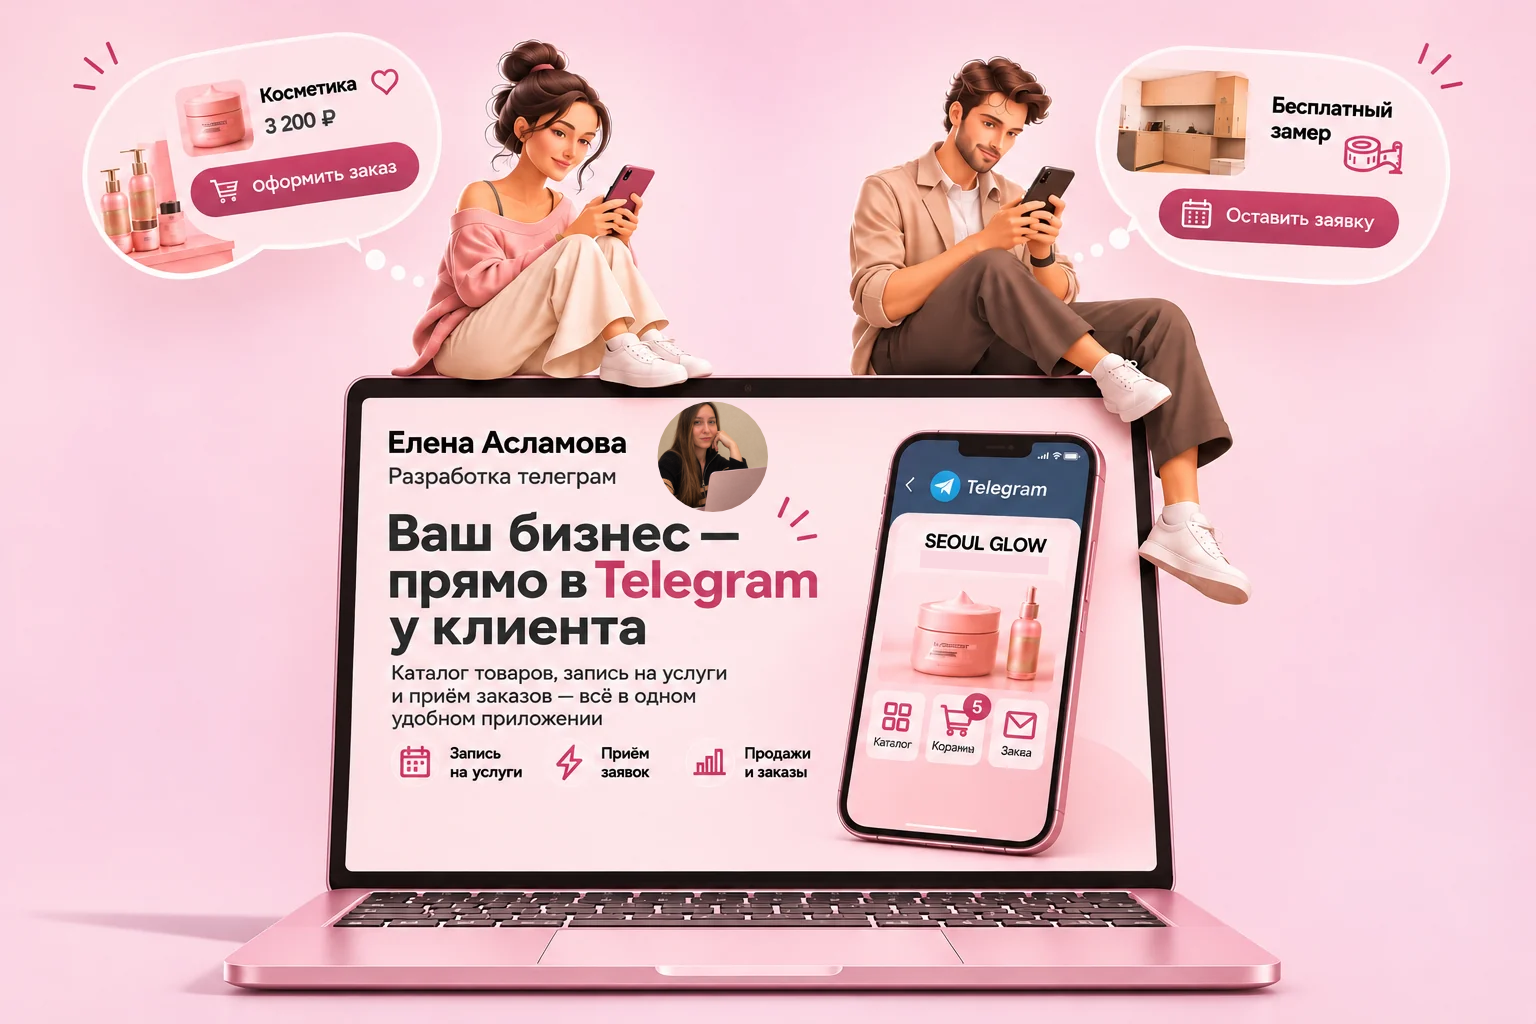
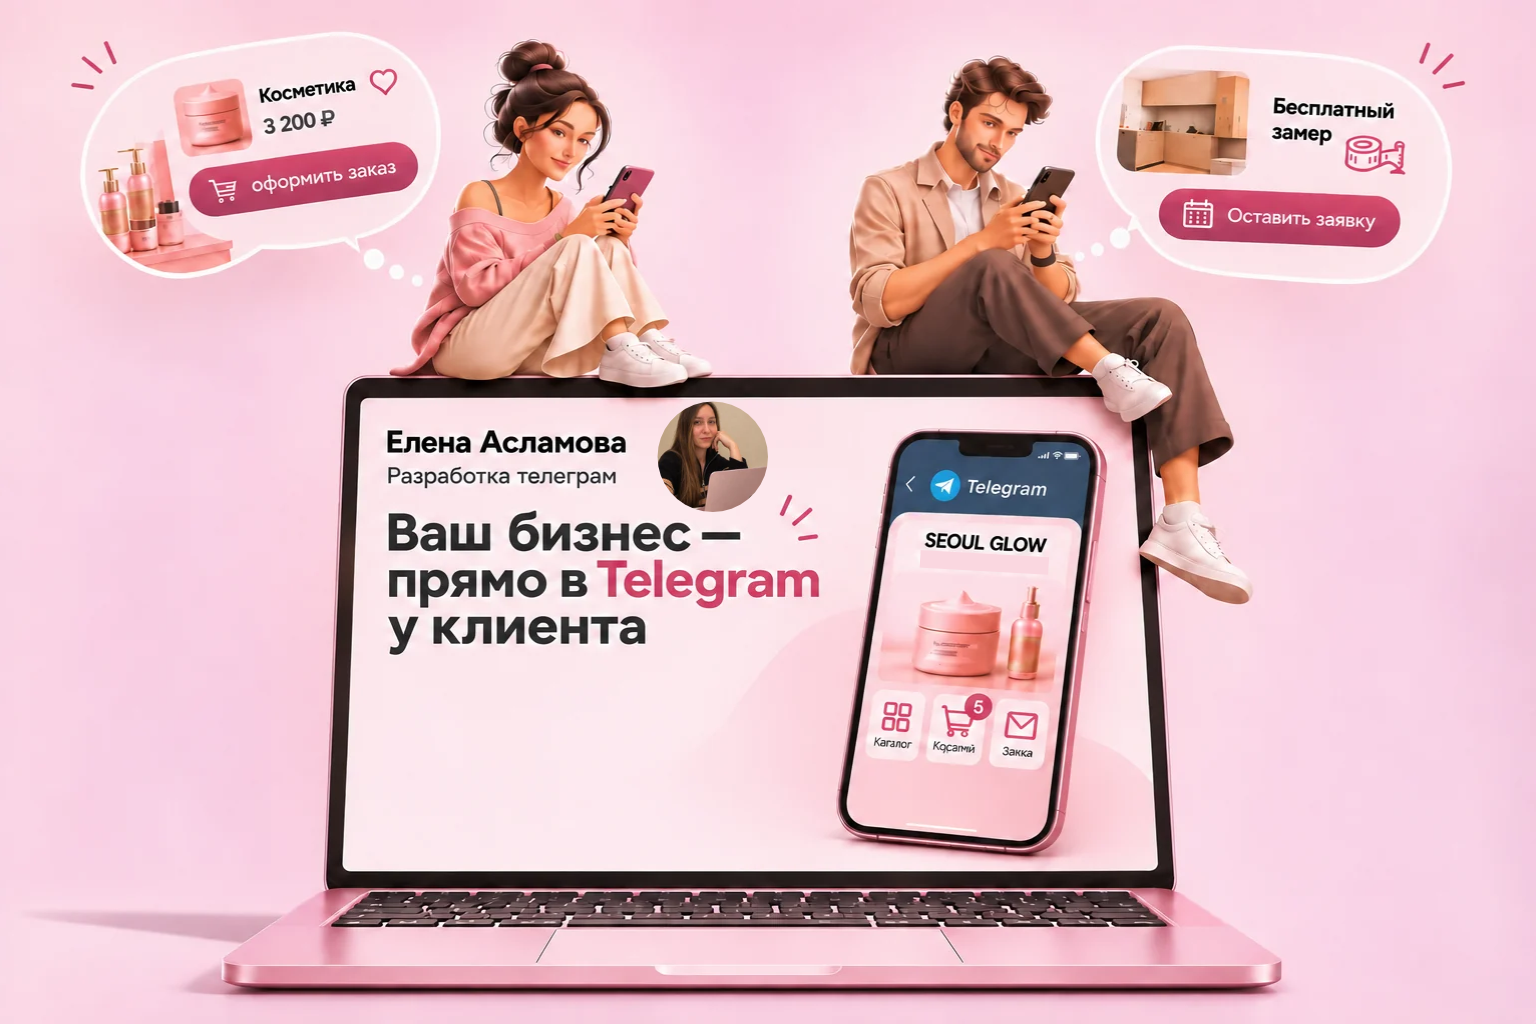
Update hero image and neon button

diff --git a/style.css b/style.css
@@ -1,4 +1,3 @@
-
 :root {
   --background: #fcf9f7;
   --text: #302b30;
@@ -47,7 +46,7 @@ a {
 .hero-art {
   position: relative;
   width: 100%;
-  line-height: 0;
+  line-height: normal;
 }
 
 .hero-image {
@@ -60,55 +59,70 @@ a {
   border-radius: 0;
 }
 
-/* КНОПКА НА ЭКРАНЕ НОУТБУКА */
+/* БОЛЬШАЯ НЕОНОВАЯ КНОПКА */
 
 .hero-button {
-  position: absolute;
-  left: 25.6%;
-  top: 78.4%;
-  width: 26.9%;
-  height: 5.1%;
-
+  position: relative;
   display: flex;
   align-items: center;
   justify-content: center;
+  gap: 14px;
 
+  width: min(680px, calc(100% - 36px));
+  min-height: 74px;
+  margin: 18px auto 28px;
+  padding: 17px 22px;
+
+  border: 1px solid rgba(255, 255, 255, 0.85);
   border-radius: 999px;
-  overflow: hidden;
 
   color: #ffffff;
-  font-size: clamp(7px, 1.12vw, 20px);
-  font-weight: 700;
-  line-height: 1.1;
-  white-space: nowrap;
+  font-family: inherit;
+  font-size: clamp(17px, 3.8vw, 23px);
+  font-weight: 800;
+  line-height: 1.2;
+  text-align: center;
 
   background: linear-gradient(
     110deg,
-    #aa557c,
-    #e782aa,
-    #b85d85,
-    #ef9abc,
-    #aa557c
+    #b84d7b,
+    #e889b0,
+    #c05a88,
+    #f09bbd,
+    #b84d7b
   );
 
   background-size: 300% 100%;
-  border: 1px solid rgba(255, 255, 255, 0.7);
 
   animation:
     pinkFlow 4s linear infinite,
     neonPulse 2.6s ease-in-out infinite;
 
-  z-index: 3;
   cursor: pointer;
+  transition: transform 0.2s ease;
 }
 
 .hero-button:hover {
-  filter: brightness(1.1);
+  transform: translateY(-2px);
 }
 
 .hero-button:focus-visible {
-  outline: 2px solid #9d356c;
-  outline-offset: 3px;
+  outline: 3px solid #9d356c;
+  outline-offset: 4px;
+}
+
+.hero-arrow {
+  flex: 0 0 auto;
+  font-size: 32px;
+  line-height: 1;
+  color: #fff;
+
+  text-shadow:
+    0 0 5px #fff,
+    0 0 12px #ffd3e8,
+    0 0 22px #ff8dbf;
+
+  animation: arrowGlow 2s ease-in-out infinite;
 }
 
 /* АНИМАЦИИ */
@@ -574,6 +588,7 @@ footer small {
 
 @media (prefers-reduced-motion: reduce) {
   .hero-button,
+  .hero-arrow,
   .project-button,
   .project-arrow,
   .contact-button {

diff --git a/index.html b/index.html
@@ -1,3 +1,4 @@
+
 <!DOCTYPE html>
 <html lang="ru">
 <head>
@@ -5,7 +6,7 @@
   <meta name="viewport" content="width=device-width, initial-scale=1.0, viewport-fit=cover">
   <meta name="theme-color" content="#f8e5e9">
   <title>Елена Асламова — Telegram Mini Apps</title>
-  <link rel="stylesheet" href="style.css">
+  <link rel="stylesheet" href="style.css?v=20261117-2">
 </head>
 <body>
 
@@ -16,7 +17,7 @@
     <div class="hero-art">
       <img
         class="hero-image"
-        src="imagesaslamovaelena/hero.png"
+        src="imagesaslamovaelena/hero.png?v=20261117-2"
         alt="Елена Асламова — разработка Telegram Mini Apps для бизнеса"
       >
 
@@ -28,6 +29,7 @@
         aria-label="Обсудить мой проект в Telegram"
       >
         <span>Обсудить мой проект</span>
+        <span class="hero-arrow" aria-hidden="true">↗</span>
       </a>
     </div>
   </section>
